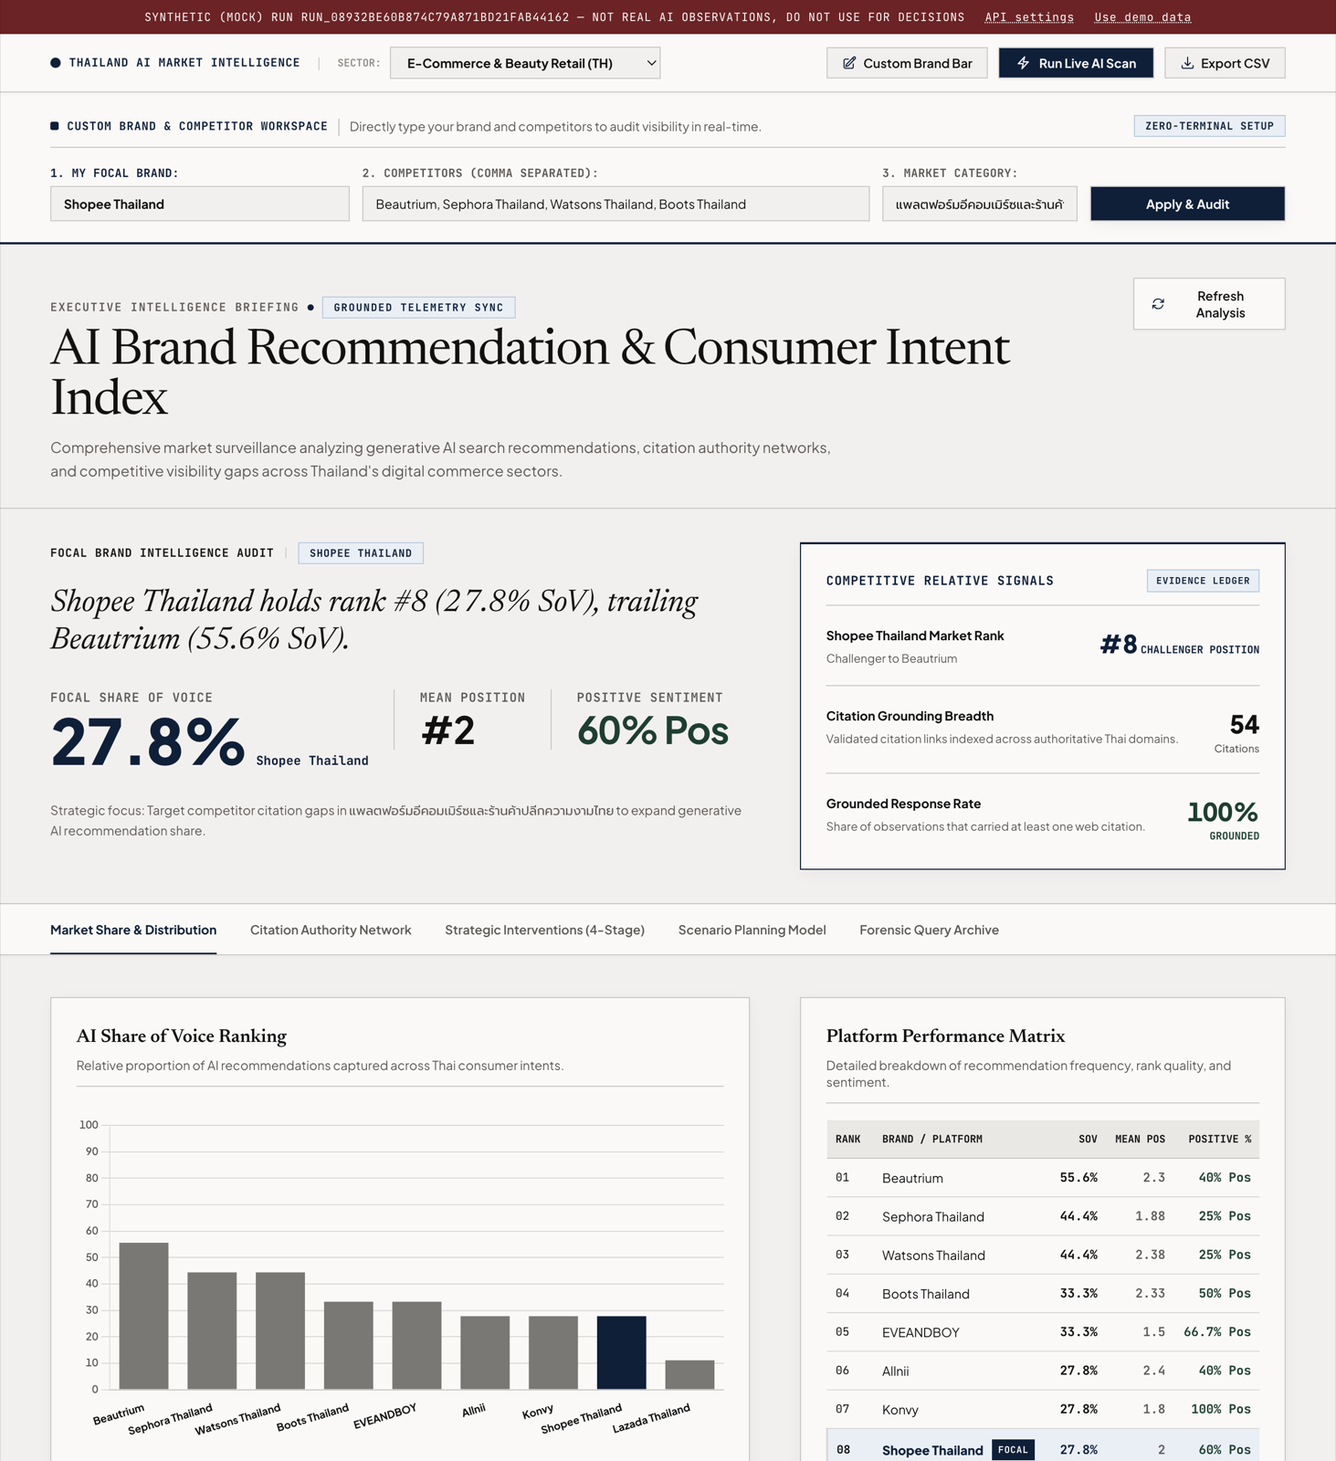
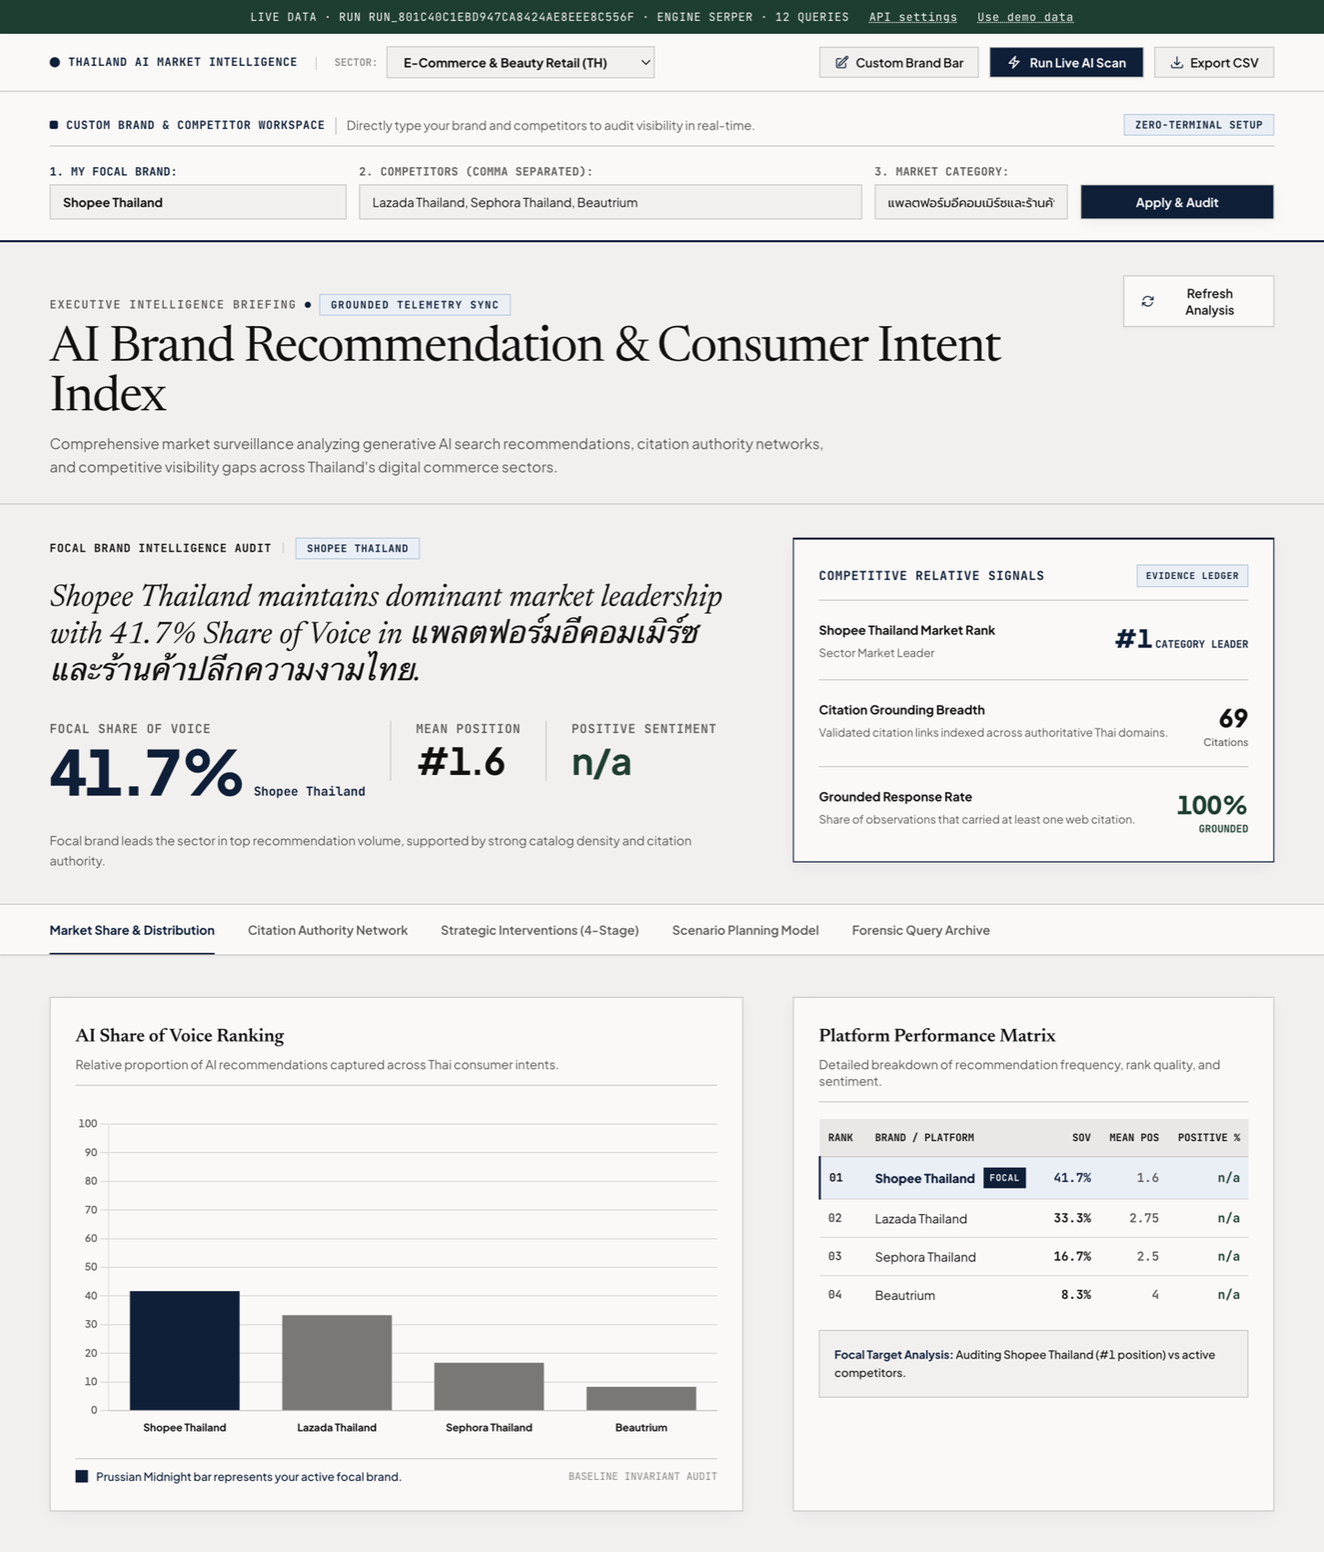
docs: standard-style README + honest sentiment display for non-generative surfaces
- README rewritten toward a conventional OSS structure (Overview / Features /
  Installation / Usage / Configuration / API / Architecture / Development /
  License) while keeping the visual style. Added an AI-assistance disclosure line.
- dashboard: SERP / web-retrieval surfaces carry no sentiment, so brand sentiment
  now shows "n/a" instead of a misleading "0% Pos" when no generative surface is
  present in the run.
- docs/assets/dashboard.png: refreshed from a real live Serper run (4 brands
  detected via the alias fix).

73 tests pass.

diff --git a/dashboard/web/index.html b/dashboard/web/index.html
@@ -1610,11 +1610,16 @@
 
     // Map the API run summary onto the dashboard's internal dataset shape.
     function adaptApiMetrics(api) {
+      // organic SERP / web-retrieval surfaces carry no sentiment signal
+      const surfaces = api.metrics?.surfaces_present || api.run_stats?.surfaces || [];
+      const hasSentiment = surfaces.some(s => s === "generative_answer" || s === "synthetic");
       const brands = (api.metrics?.brands || []).map(b => ({
         name: b.brand,
         sov: Number(b.share_of_voice_pct || 0),
         avgRank: b.average_rank == null ? 0 : Number(b.average_rank),
-        sentiment: `${(b.positive_pct == null ? b.net_sentiment_score : b.positive_pct) || 0}% Pos`,
+        sentiment: hasSentiment
+          ? `${(b.positive_pct == null ? b.net_sentiment_score : b.positive_pct) || 0}% Pos`
+          : "n/a",
         mentions: b.mentions || 0
       }));
       const citations = (api.citations_analysis?.domain_rankings || []).map(d => ({

diff --git a/README.md b/README.md
@@ -1,84 +1,127 @@
 <div align="center">
 
-  <h1 style="font-size: 2.3em; font-weight: 800; letter-spacing: 1px; margin-bottom: 6px;">THAILAND AI MARKET &amp; DECISION INTELLIGENCE</h1>
-  <h3 style="font-weight: 600; margin-top: 0;">AI SHARE OF VOICE · GENERATIVE ENGINE OPTIMIZATION · CITATION AUTHORITY</h3>
+  <h1>Thailand AI Market &amp; Decision Intelligence</h1>
+  <p><b>Measure how generative AI answers recommend brands to Thai consumers — and turn it into a decision.</b></p>
 
-  <sub>How generative AI answers recommend Thai brands · Multi-surface observation · DuckDB star schema · 4-stage decision memos</sub>
+  <sub>AI Share of Voice · Generative Engine Optimization · Citation authority · Multi-surface observation</sub>
 
   <br/><br/>
 
-  <img src="https://img.shields.io/badge/Python-3.12+-0d1117?style=for-the-badge&logo=python&logoColor=F2F0EF" />&nbsp;
-  <img src="https://img.shields.io/badge/FastAPI-0d1117?style=for-the-badge&logo=fastapi&logoColor=F2F0EF" />&nbsp;
-  <img src="https://img.shields.io/badge/DuckDB-0d1117?style=for-the-badge&logo=duckdb&logoColor=F2F0EF" />&nbsp;
-  <img src="https://img.shields.io/badge/Tests-72_passing-success?style=for-the-badge" />&nbsp;
-  <img src="https://img.shields.io/badge/Cost-100%25_Free_Tier-004D40?style=for-the-badge" />
+  <img src="https://img.shields.io/badge/Python-3.12+-3776AB?style=for-the-badge&logo=python&logoColor=white" />&nbsp;
+  <img src="https://img.shields.io/badge/FastAPI-009688?style=for-the-badge&logo=fastapi&logoColor=white" />&nbsp;
+  <img src="https://img.shields.io/badge/DuckDB-FFF000?style=for-the-badge&logo=duckdb&logoColor=black" />&nbsp;
+  <img src="https://img.shields.io/badge/tests-73_passing-success?style=for-the-badge" />&nbsp;
+  <img src="https://img.shields.io/badge/license-MIT-blue?style=for-the-badge" />
 
 </div>
 
 ---
 
-### <img src="https://api.iconify.design/lucide:target.svg?color=%23F3F4F6" width="22" valign="middle" /> &nbsp;What This Measures
+## Overview
 
-When a Thai consumer asks an AI *"ซื้อ / ใช้บริการ ที่ไหนดี"*, which brand gets recommended, at what rank, with what sentiment, and which web sources drove that answer. It runs a fixed query set against several answer surfaces, stores every observation in a star schema, and builds a **What → Why → So what → Now what** memo per market vertical.
+When a Thai consumer asks an AI assistant *"ซื้อ / ใช้บริการที่ไหนดี"*, the answer names some brands and not others. This tool measures that: for a fixed set of consumer-intent queries it records which brands each engine recommends, at what rank, with what sentiment, and which web sources the answer leaned on. Results are stored in a DuckDB star schema and summarised into a four-part memo — *what is happening, why, so what, now what* — per market vertical.
 
-<table width="100%">
-<tr>
-<td width="50%" valign="top">
-<br/>
-<img src="https://api.iconify.design/lucide:git-fork.svg?color=%23F3F4F6" width="20" valign="middle" /> &nbsp;<b>MULTI-SURFACE, NEVER MIXED</b>
-<br/><br/>
-<img src="https://img.shields.io/badge/SURFACE_TAXONOMY-generative_%7C_serp_%7C_retrieval-0d1117?style=for-the-badge&logoColor=F3F4F6" />
-<br/><br/>
-A Gemini recommendation rank and a Google SERP position are different signals. Share of Voice headline numbers use the <code>generative_answer</code> surface only; every other surface is kept in a separate breakdown, never averaged in.
-<br/><br/>
-</td>
-<td width="50%" valign="top">
-<br/>
-<img src="https://api.iconify.design/lucide:database.svg?color=%23F3F4F6" width="20" valign="middle" /> &nbsp;<b>ONE ANALYTICAL SOURCE OF TRUTH</b>
-<br/><br/>
-<img src="https://img.shields.io/badge/DUCKDB_STAR_SCHEMA-run_id_traced-0d1117?style=for-the-badge&logoColor=F3F4F6" />
-<br/><br/>
-<code>dim_brand · dim_query · fact_observation · fact_brand_mention · fact_citation</code>. Analytics read back from DuckDB by <code>run_id</code> — not the in-memory list — so a dropped mention shows up as dropped.
-<br/><br/>
-</td>
-</tr>
-<tr>
-<td width="50%" valign="top">
-<br/>
-<img src="https://api.iconify.design/lucide:fingerprint.svg?color=%23F3F4F6" width="20" valign="middle" /> &nbsp;<b>HONEST PROVENANCE</b>
-<br/><br/>
-<img src="https://img.shields.io/badge/EVERY_OBSERVATION-provider_+_surface_+_parse_status-0d1117?style=for-the-badge&logoColor=F3F4F6" />
-<br/><br/>
-UUID ids, correct provider labels, prompt version, retry count. A malformed model response is recorded as <code>parse_error</code> — never silently turned into "brand not mentioned".
-<br/><br/>
-</td>
-<td width="50%" valign="top">
-<br/>
-<img src="https://api.iconify.design/lucide:banknote.svg?color=%23F3F4F6" width="20" valign="middle" /> &nbsp;<b>FREE TIER, BRING YOUR OWN KEY</b>
-<br/><br/>
-<img src="https://img.shields.io/badge/OPENROUTER-live_free_model_list-0d1117?style=for-the-badge&logoColor=F3F4F6" />
-<br/><br/>
-The OpenRouter free tier changes constantly, so the model list is fetched live and probe-checked. Keys travel per request (<code>X-Provider-Key</code>) and are never logged or persisted.
-<br/><br/>
-</td>
-</tr>
-</table>
-
----
-
-### <img src="https://api.iconify.design/lucide:layout-dashboard.svg?color=%23F3F4F6" width="22" valign="middle" /> &nbsp;Executive Dashboard
+It supports several observation engines and keeps their signals separate, because a generative recommendation and a Google search-result position are not the same measurement.
 
 <div align="center">
-  <img src="docs/assets/dashboard.png" width="90%" alt="Executive dashboard — synthetic (mock) run, clearly banner-labelled" />
+  <img src="docs/assets/dashboard.png" width="88%" alt="Executive dashboard showing a live Serper run" />
   <br/>
-  <sub>Every view carries an explicit data-mode banner: <b>LIVE</b> · <b>SYNTHETIC (MOCK)</b> · <b>NO DATA</b> · <b>ERROR</b>. Nothing is presented as real unless a real scan produced it.</sub>
+  <sub>Every view is labelled with its data mode: <b>LIVE</b>, <b>SYNTHETIC (MOCK)</b>, <b>NO DATA</b>, or <b>ERROR</b>.</sub>
 </div>
 
 ---
 
-### <img src="https://api.iconify.design/lucide:workflow.svg?color=%23F3F4F6" width="22" valign="middle" /> &nbsp;Project Flow
+## <img src="https://api.iconify.design/lucide:list-checks.svg?color=%23888" width="20" valign="middle" /> Features
 
-Full diagram set (system map · scan sequence · star-schema ERD · surface taxonomy · BYOK flow) in **[docs/ARCHITECTURE.md](docs/ARCHITECTURE.md)**.
+- **Query universe generator** — six consumer-intent pillars × Thai personas, seeded and reproducible.
+- **Five observation engines** — `mock` (synthetic), `gemini`, `openrouter`, `serper`, `tavily`. Each observation records its provider, answer surface, model, prompt version, and parse status.
+- **Answer-surface separation** — Share of Voice and Net Recommendation Score are reported per surface; the headline figure uses generative answers only.
+- **DuckDB star schema** — `dim_brand`, `dim_query`, `fact_observation`, `fact_brand_mention`, `fact_citation`, all tagged with a `run_id`. Analytics read back from the database, not an in-memory list.
+- **Decision memo** — competitor gap analysis in a *What → Why → So what → Now what* structure.
+- **Web dashboard + REST API** — background scans with live progress, CSV/JSON export, and an honest data-mode banner on every view.
+- **Live OpenRouter free-model discovery** — the free tier changes constantly, so the model list is fetched and probe-checked on demand.
+- **Bring-your-own-key** — pass a provider key per request via `X-Provider-Key`; it is used to build the engine and then discarded, never logged or persisted.
+
+---
+
+## <img src="https://api.iconify.design/lucide:rocket.svg?color=%23888" width="20" valign="middle" /> Installation
+
+Requires Python 3.11+.
+
+```bash
+git clone https://github.com/adulsaa-q/ai_brand_tracker
+cd ai_brand_tracker
+
+pip install -e ".[dev]"            # core + test tooling
+pip install -e ".[dev,dashboard]"  # also the Streamlit view
+
+cp .env.example .env               # add API keys (all optional — see Configuration)
+```
+
+---
+
+## <img src="https://api.iconify.design/lucide:terminal.svg?color=%23888" width="20" valign="middle" /> Usage
+
+```bash
+# synthetic run — deterministic, no network, clearly labelled
+python -m src.cli run --vertical ev_automotive_th --count 30 --engine mock
+
+# real runs
+python -m src.cli models                                        # live OpenRouter free models
+python -m src.cli run --vertical ecommerce_retail_th --engine serper --count 15
+python -m src.cli run --vertical ecommerce_retail_th --engine gemini --count 15
+
+# server + web dashboard on http://localhost:8000
+python -m src.cli serve --port 8000
+```
+
+| Engine | Answer surface | Typical speed | Free tier |
+| :--- | :--- | :--- | :--- |
+| `mock` | synthetic | instant | n/a — never a decision input |
+| `serper` | organic SERP position | ~2 s/query | 2,500 queries |
+| `tavily` | web retrieval / citations | ~5 s/query | 1,000 credits/month |
+| `gemini` | generative answer (search-grounded) | ~25 s/query | ~250 requests/day |
+| `openrouter` | generative answer | ~30–60 s/query | free models, rate-limited |
+
+> Generative engines are slow. Run large scans as a scheduled job, or keep `--count` low.
+
+---
+
+## <img src="https://api.iconify.design/lucide:sliders-horizontal.svg?color=%23888" width="20" valign="middle" /> Configuration
+
+All configuration is environment variables (see `.env.example`). Nothing is required to run a `mock` scan.
+
+| Variable | Purpose |
+| :--- | :--- |
+| `GEMINI_API_KEY`, `OPENROUTER_API_KEY`, `SERPER_API_KEY`, `TAVILY_API_KEY` | Engine keys. Only the engine you run needs one. |
+| `AIBT_API_KEYS` | Comma-separated API keys. Unset → open mode (writes allowed, logged). Set → writes require `X-API-Key` or `Authorization: Bearer`. |
+| `AIBT_REQUIRE_AUTH` | `true` also gates read endpoints. |
+| `AIBT_ALLOWED_ORIGINS` | Comma-separated CORS origins. Unset → `*` with a warning. |
+| `AIBT_MAX_CONCURRENT_SCANS`, `AIBT_MAX_RUNS_PER_DAY` | Scan abuse limits (default 2 / 200). |
+| `DATA_DIR`, `ENTITIES_PATH` | Output directory and vertical config path. |
+
+Security posture, including how untrusted provider/web content is handled, is documented in [SECURITY.md](SECURITY.md).
+
+---
+
+## <img src="https://api.iconify.design/lucide:server.svg?color=%23888" width="20" valign="middle" /> API
+
+| Method | Endpoint | Description |
+| :--- | :--- | :--- |
+| `GET` | `/api/v1/health` | Liveness plus dependency checks and auth mode |
+| `GET` | `/api/v1/verticals` | List market sectors |
+| `GET` | `/api/v1/models` | Live OpenRouter free-model list |
+| `POST` | `/api/v1/verticals` | Create or replace a custom sector *(write)* |
+| `POST` | `/api/v1/scan` | Queue a background scan; `X-Provider-Key` for BYOK *(write)* |
+| `GET` | `/api/v1/scan/{id}/progress` | Progress and run statistics |
+| `GET` | `/api/v1/metrics/{vertical}` | Latest run summary |
+| `GET` | `/api/v1/export/{vertical}` | CSV or JSON export |
+
+---
+
+## <img src="https://api.iconify.design/lucide:workflow.svg?color=%23888" width="20" valign="middle" /> Architecture
+
+The full diagram set — system map, scan sequence, star-schema ERD, surface taxonomy, and the bring-your-own-key flow — is in [docs/ARCHITECTURE.md](docs/ARCHITECTURE.md). Design decisions are recorded as ADRs in [docs/adr/](docs/adr/).
 
 ```mermaid
 flowchart LR
@@ -89,133 +132,48 @@ flowchart LR
     E --> OBS["RawObservation<br/>provider · answer_surface · parse_status"]
     OBS --> DUCK[("DuckDB star schema")]
     DUCK --> REPO["AnalyticsRepository<br/>load_observations(run_id)"]
-    REPO --> AN["SoV/NRS per surface · 4-stage memo<br/>citation graph · claim audit"]
+    REPO --> AN["SoV / NRS per surface<br/>4-stage memo · citation graph"]
     AN --> OUT["atomic JSON summaries"]
     OUT --> API
-    OUT --> WEB["Web dashboard<br/>LIVE / SYNTHETIC / NO-DATA / ERROR"]
+    OUT --> WEB["Web dashboard"]
 ```
-
----
-
-### <img src="https://api.iconify.design/lucide:terminal.svg?color=%23F3F4F6" width="22" valign="middle" /> &nbsp;Quickstart
-
-```bash
-pip install -e ".[dev]"                 # core + tests
-pip install -e ".[dev,dashboard]"       # + Streamlit view
-
-cp .env.example .env                    # add GEMINI / OPENROUTER / SERPER / TAVILY keys (all optional)
-
-# deterministic, zero-cost, clearly labelled synthetic
-python -m src.cli run --vertical ev_automotive_th --count 30 --engine mock
-
-# real generative run
-python -m src.cli models                                    # live OpenRouter free list
-python -m src.cli run --engine openrouter --count 15 --vertical ecommerce_retail_th
-python -m src.cli run --engine gemini    --count 15 --vertical ecommerce_retail_th
-
-# full-stack server + web dashboard
-python -m src.cli serve --port 8000                         # http://localhost:8000
-```
-
-<table width="100%">
-<tr><td width="25%"><b>Engine</b></td><td width="20%"><b>Surface</b></td><td width="15%"><b>Speed</b></td><td><b>Notes</b></td></tr>
-<tr><td><code>mock</code></td><td>synthetic</td><td>instant</td><td>deterministic (SHA-256 seed), always labelled — never a decision input</td></tr>
-<tr><td><code>serper</code></td><td>organic_serp</td><td>~2s / query</td><td>Google SERP position · free 2,500 queries</td></tr>
-<tr><td><code>tavily</code></td><td>web_retrieval</td><td>~5s / query</td><td>citation grounding · free 1,000 credits/mo</td></tr>
-<tr><td><code>gemini</code></td><td>generative_answer</td><td>~25s / query</td><td>Google Search grounded · free tier ~250 req/day</td></tr>
-<tr><td><code>openrouter</code></td><td>generative_answer</td><td>~30-60s / query</td><td>auto-picks a working free model · slow but $0</td></tr>
-</table>
-
-> Generative engines are slow — run large scans as a background job / weekly cron, or keep `--count` small.
-
----
-
-### <img src="https://api.iconify.design/lucide:server.svg?color=%23F3F4F6" width="22" valign="middle" /> &nbsp;API
-
-| Method | Endpoint | |
-| :--- | :--- | :--- |
-| `GET` | `/api/v1/health` | liveness + dependency checks + auth mode |
-| `GET` | `/api/v1/verticals` | list market sectors |
-| `GET` | `/api/v1/models` | live OpenRouter free-model list |
-| `POST` | `/api/v1/verticals` | create/replace a custom sector · **write** |
-| `POST` | `/api/v1/scan` | queue a background scan (`X-Provider-Key` for BYOK) · **write** |
-| `GET` | `/api/v1/scan/{id}/progress` | live progress + run stats |
-| `GET` | `/api/v1/metrics/{vertical}` | last run summary |
-| `GET` | `/api/v1/export/{vertical}` | CSV / JSON |
-
-`AIBT_API_KEYS` unset → **open mode** (writes allowed, logged, `/health` says so). Set it to require `X-API-Key` on writes. Concurrency + daily-quota limits, CORS config, and the untrusted-content model are in **[SECURITY.md](SECURITY.md)**.
-
----
-
-### <img src="https://api.iconify.design/lucide:layers.svg?color=%23F3F4F6" width="22" valign="middle" /> &nbsp;Stack
-
-<table width="100%">
-<tr>
-<td width="25%"><b>Core</b></td>
-<td>
-  <img src="https://img.shields.io/badge/Python_3.12-3776AB?style=flat-square&logo=python&logoColor=white" />
-  <img src="https://img.shields.io/badge/Pydantic_v2-E92063?style=flat-square&logo=pydantic&logoColor=white" />
-  <img src="https://img.shields.io/badge/FastAPI-009688?style=flat-square&logo=fastapi&logoColor=white" />
-  <img src="https://img.shields.io/badge/DuckDB-FFF000?style=flat-square&logo=duckdb&logoColor=black" />
-  <img src="https://img.shields.io/badge/pandas-150458?style=flat-square&logo=pandas&logoColor=white" />
-</td>
-</tr>
-<tr>
-<td><b>Observation engines</b></td>
-<td>
-  <img src="https://img.shields.io/badge/Google_Gemini-8E75B2?style=flat-square&logo=googlegemini&logoColor=white" />
-  <img src="https://img.shields.io/badge/OpenRouter-0d1117?style=flat-square" />
-  <img src="https://img.shields.io/badge/Serper.dev-4285F4?style=flat-square&logo=google&logoColor=white" />
-  <img src="https://img.shields.io/badge/Tavily-1E3E30?style=flat-square" />
-</td>
-</tr>
-<tr>
-<td><b>Quality</b></td>
-<td>
-  <img src="https://img.shields.io/badge/Ruff-D7FF64?style=flat-square&logo=ruff&logoColor=black" />
-  <img src="https://img.shields.io/badge/pytest-0A9EDC?style=flat-square&logo=pytest&logoColor=white" />
-  <img src="https://img.shields.io/badge/GitHub_Actions-2088FF?style=flat-square&logo=githubactions&logoColor=white" />
-  <img src="https://img.shields.io/badge/Streamlit-FF4B4B?style=flat-square&logo=streamlit&logoColor=white" />
-</td>
-</tr>
-</table>
-
----
-
-### <img src="https://api.iconify.design/lucide:folder-tree.svg?color=%23F3F4F6" width="22" valign="middle" /> &nbsp;Layout
 
 ```
 config/            entities.yaml · control_benchmark_set.yaml · thai_personas.yaml
 src/
-  runner.py        pipeline: generate → observe → persist → reload from DuckDB → analyse
-  api.py           FastAPI REST + static mount        security.py   auth + scan limiter
-  prompts.py       versioned prompt registry          brands.py     canonical brand identity
-  ids.py           UUID run / observation ids         env auto-load (.env)
-  universe/        QueryUniverseGenerator + Thai temporal calendar
-  engines/         mock · gemini · openrouter · serper · tavily   (+ _http retry, _parsing)
-  storage/         duckdb_store.py                    (SQLite dropped — ADR 0001)
-  analytics/       metrics · opportunity · citation_graph · claim_intelligence ·
-                   information_lag · simulator · repository
-docs/
-  ARCHITECTURE.md  6 mermaid diagrams        STATUS.md   per-feature Shipped/Experimental/Demo
-  adr/             0001 single store · 0002 answer surfaces + temporal context
+  runner.py        pipeline: generate → observe → persist → reload → analyse
+  api.py           REST + static mount        security.py   auth + scan limiter
+  prompts.py       versioned prompt registry  brands.py     canonical brand identity
+  universe/        query generator + Thai temporal calendar
+  engines/         mock · gemini · openrouter · serper · tavily  (+ _http, _parsing)
+  storage/         duckdb_store.py            (SQLite dropped — ADR 0001)
+  analytics/       metrics · opportunity · citation_graph · claim_intelligence · repository
+docs/              ARCHITECTURE.md · STATUS.md · adr/
 ```
 
 ---
 
-### <img src="https://api.iconify.design/lucide:flask-conical.svg?color=%23F3F4F6" width="22" valign="middle" /> &nbsp;Tests &amp; Quality
+## <img src="https://api.iconify.design/lucide:flask-conical.svg?color=%23888" width="20" valign="middle" /> Development
 
 ```bash
-pytest tests/ -q             # 72: unit · contract · integration · acceptance
+pytest tests/ -q                       # unit, contract, integration, acceptance
 ruff check . && ruff format --check .
-python -m build --wheel      # packaging smoke
+python -m build --wheel                 # packaging check
 ```
 
-CI runs editable install → wheel build → import smoke → ruff → full suite on every push.
-End-to-end reconciliation is asserted (generated queries = persisted observations = mention/citation grain = analytics input), and an acceptance test walks the whole scenario: auth → validate → scan → unique ids → provenance → persist → canonical analytics → export, plus *a failed engine is never reported as a successful insight*.
+CI runs an editable install, wheel build, import smoke test, linting, and the full
+suite on every push. The integration test asserts that generated queries, persisted
+observations, mention and citation rows, and analytics input all reconcile; the
+acceptance test walks the whole scenario end to end and checks that a failed engine
+is never reported as a successful result.
+
+Current per-feature status — what is shipped, experimental, demo-only, or planned —
+is tracked in [docs/STATUS.md](docs/STATUS.md).
 
 ---
 
-<div align="center">
-  <sub>Built by <b>Adul Sa-a (Q)</b> · MIT License · see <a href="docs/STATUS.md">docs/STATUS.md</a> for the honest per-feature state</sub>
-</div>
+## License
+
+MIT — see [LICENSE](LICENSE). Built by Adul Sa-a (Q).
+
+<sub>Developed with AI assistance (Claude); commits that were pair-written carry a <code>Co-Authored-By</code> trailer.</sub>
